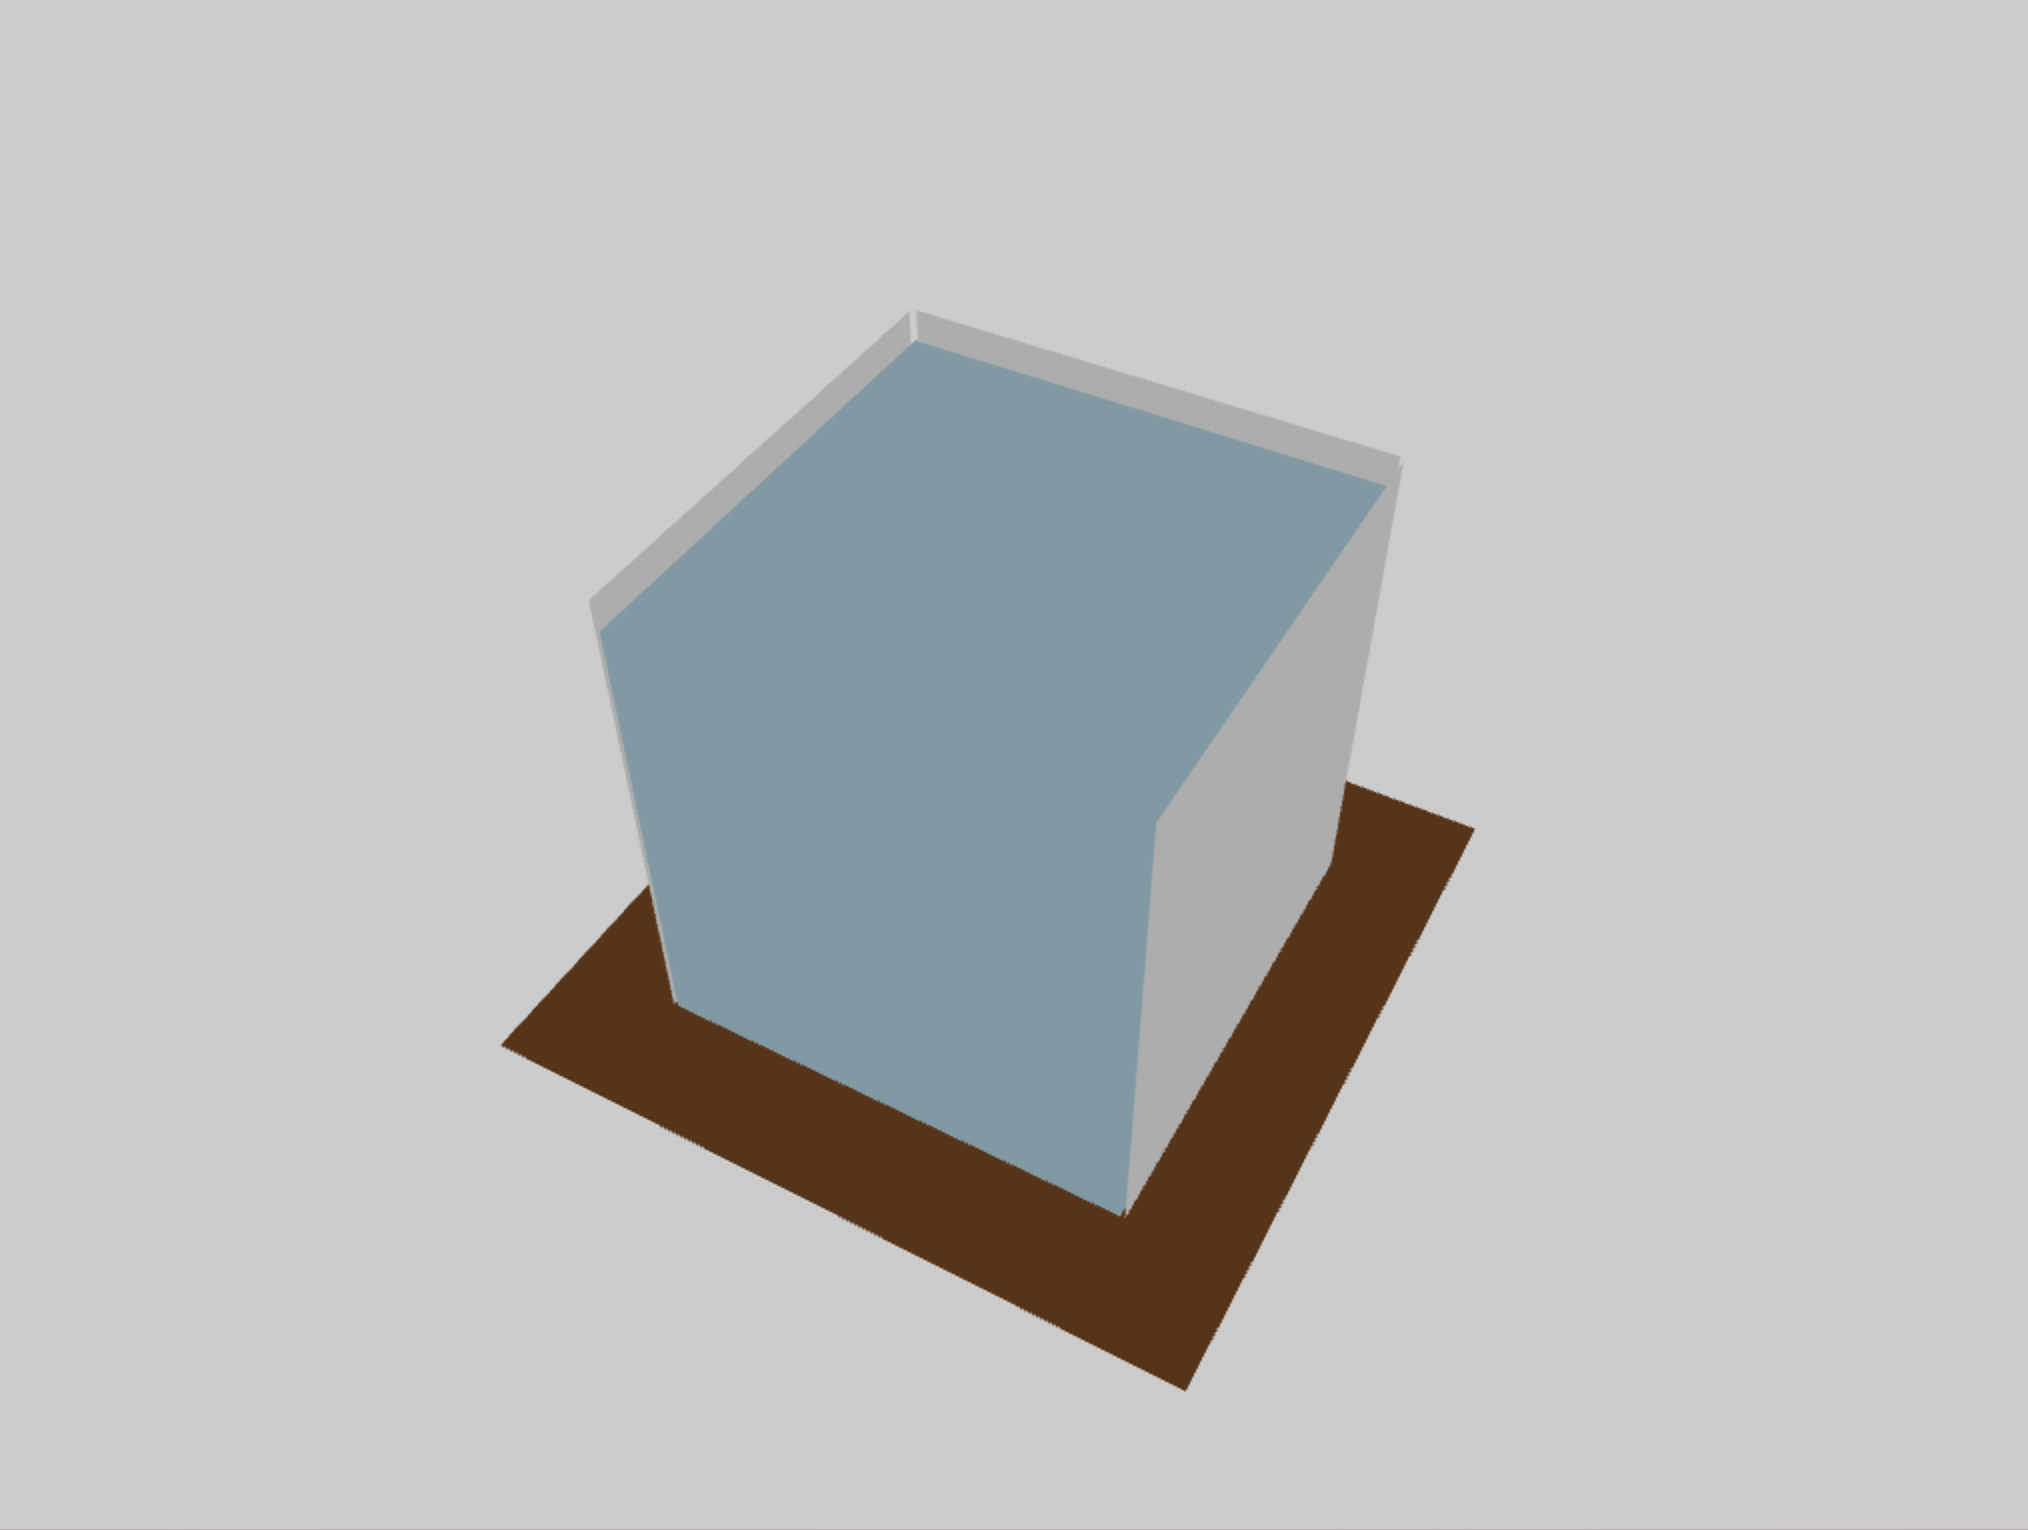
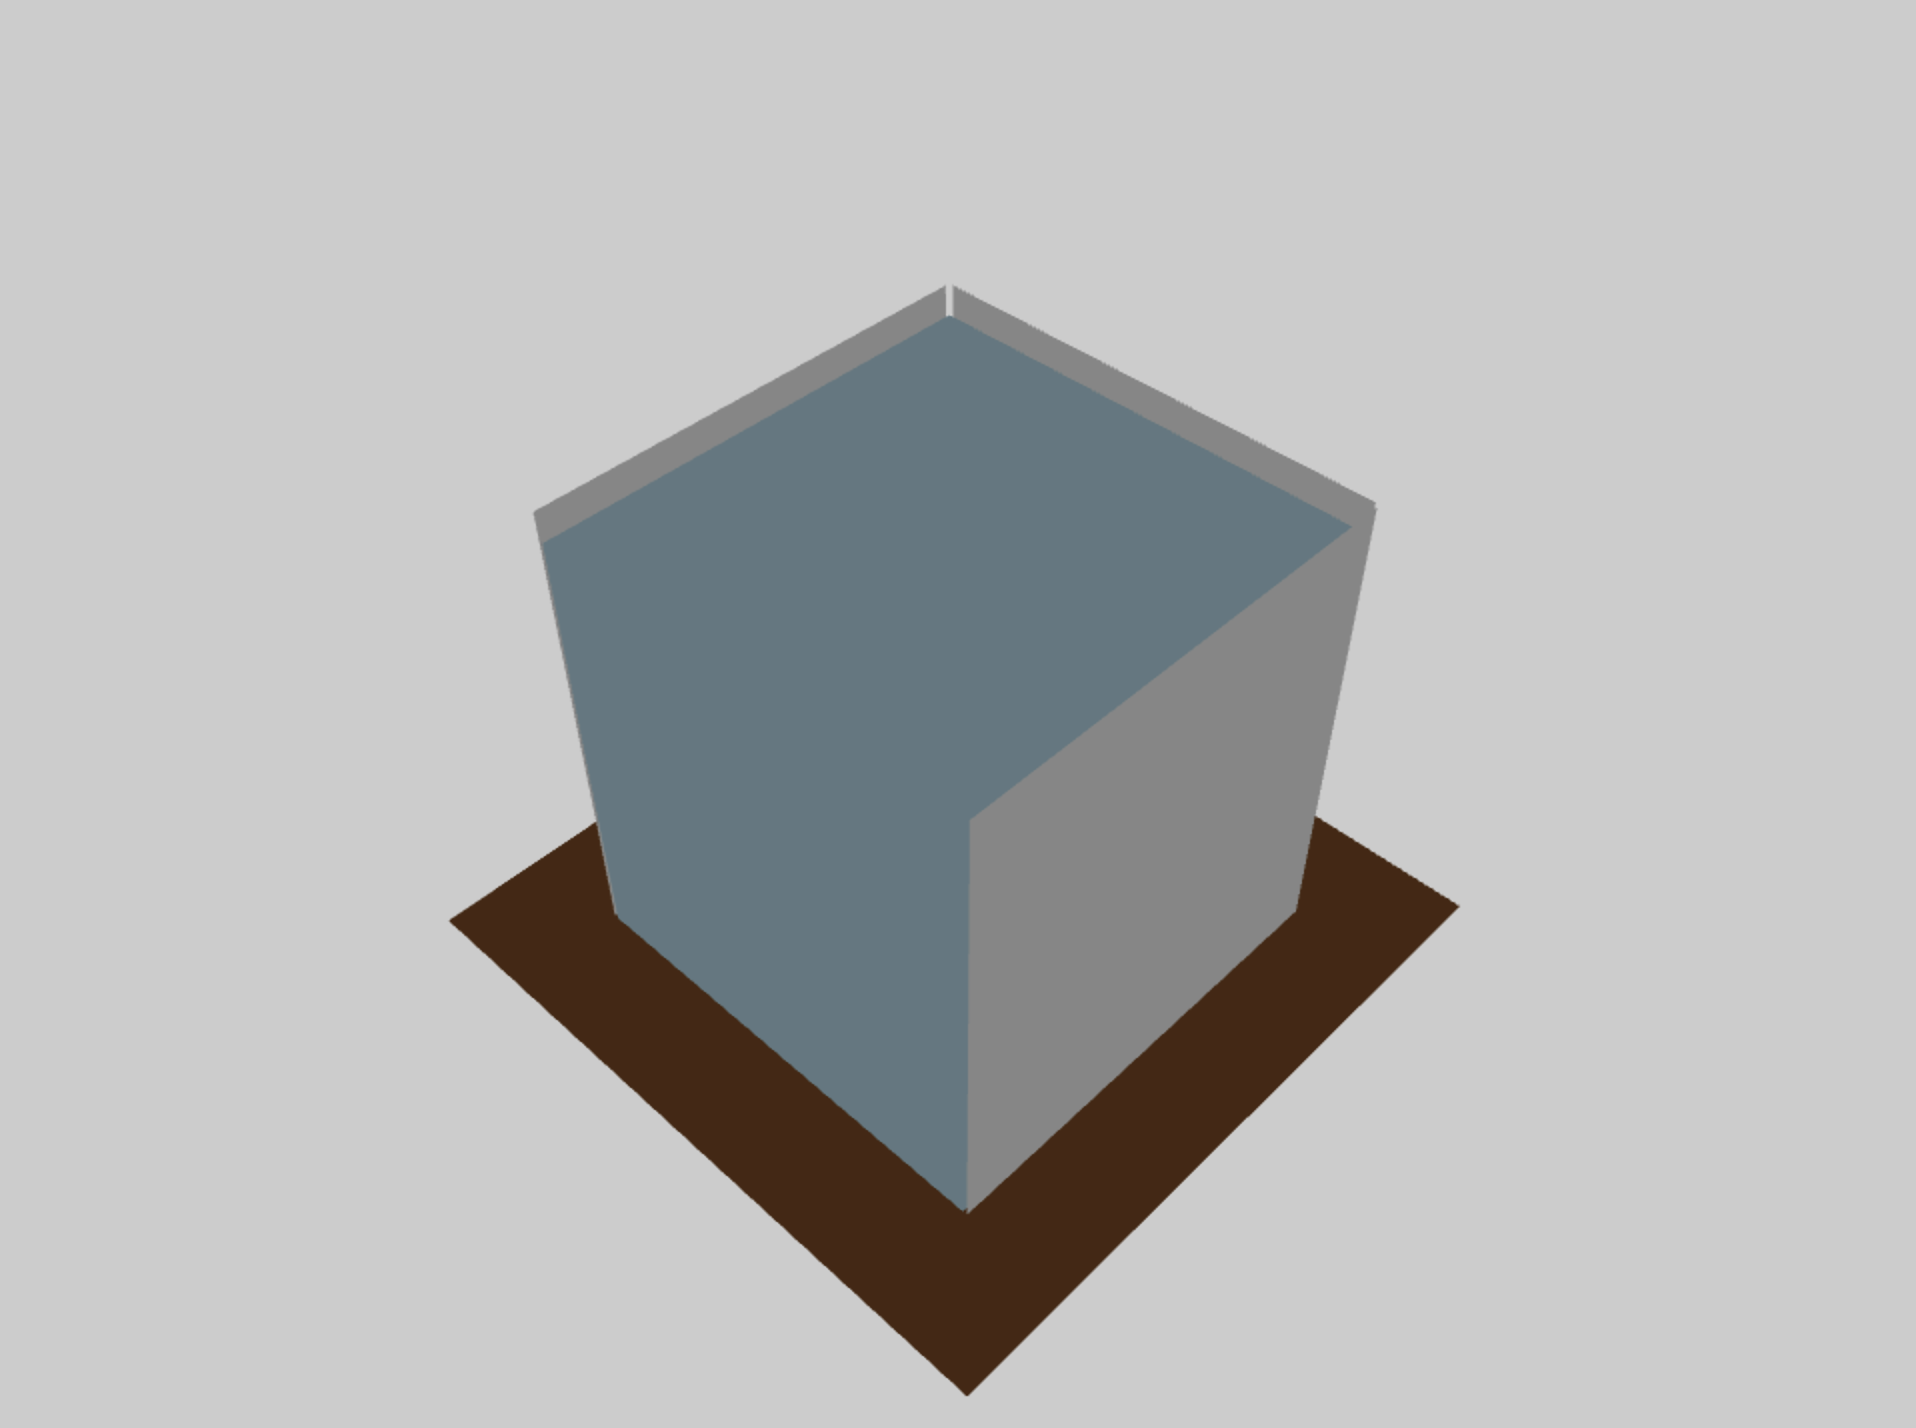
phong light adapted to material
todo: variate material param based on object (ex: aquarium bcp de reflets, table pas)

Changed region(s): [[0.2156, 0.1849, 0.7698, 0.986]]

diff --git a/Code/waterRendering/main.cpp b/Code/waterRendering/main.cpp
@@ -164,7 +164,7 @@ int main( void )
     plane->generateBuffers();
 
     plane->setColor(glm::vec3(0.5, 0.27, 0.11));
-    plane->setMaterial(glm::vec3(0.1, 0.1, 0.1), glm::vec3(0.1, 0.1, 0.1), glm::vec3(0.1, 0.1, 0.1));
+    plane->setPlaneMaterial(glm::vec3(0.8, 0.8, 0.8), glm::vec3(0.7, 0.7, 0.7), glm::vec3(0.8, 0.8, 0.8));
     scene_objects.push_back(plane);
     // ------------------------------------------------------------------------------------
 
@@ -174,8 +174,7 @@ int main( void )
     // ------------------------------------------------------------------------------------
     water->setCubeColor(glm::vec3(0.67, 0.84, 0.9));
     water->generatePlanes();
-    //water->setCubeMaterial(glm::vec3(0.1, 0.1, 0.1), glm::vec3(0.1, 0.1, 0.1), glm::vec3(0.1, 0.1, 0.1));
-    water->setMaterial(glm::vec3(0.1, 0.1, 0.1), glm::vec3(0.1, 0.1, 0.1), glm::vec3(0.1, 0.1, 0.1));
+    water->setCubeMaterial(glm::vec3(0.8, 0.8, 0.8), glm::vec3(0.7, 0.7, 0.7), glm::vec3(0.8, 0.8, 0.8));
     scene_objects.push_back(water->top);
     scene_objects.push_back(water->floor);
     scene_objects.push_back(water->left);
@@ -189,8 +188,7 @@ int main( void )
     // ------------------------------------------------------------------------------------
     aquarium->setAquariumColor(glm::vec3(0.94, 0.94, 0.94));
     aquarium->generatePlanes();
-    //aquarium->setAquariumMaterial(glm::vec3(0.1, 0.1, 0.1), glm::vec3(0.1, 0.1, 0.1), glm::vec3(0.1, 0.1, 0.1))
-    aquarium->setMaterial(glm::vec3(0.1, 0.1, 0.1), glm::vec3(0.1, 0.1, 0.1), glm::vec3(0.1, 0.1, 0.1));
+    aquarium->setAquariumMaterial(glm::vec3(0.8, 0.8, 0.8), glm::vec3(0.7, 0.7, 0.7), glm::vec3(0.8, 0.8, 0.8));
     scene_objects.push_back(aquarium->floor);
     scene_objects.push_back(aquarium->left);
     scene_objects.push_back(aquarium->right);

diff --git a/Code/waterRendering/Cube.h b/Code/waterRendering/Cube.h
@@ -72,6 +72,15 @@ public:
         back->setColor(color);
     }
 
+    void setCubeMaterial(glm::vec3 a, glm::vec3 d, glm::vec3 s){
+        top->setPlaneMaterial(a, d, s);
+        floor->setPlaneMaterial(a, d, s);
+        left->setPlaneMaterial(a, d, s);
+        right->setPlaneMaterial(a, d, s);
+        front->setPlaneMaterial(a, d, s);
+        back->setPlaneMaterial(a, d, s);
+    }
+
 
 };
 

diff --git a/Code/waterRendering/Plane.h b/Code/waterRendering/Plane.h
@@ -70,6 +70,12 @@ public:
         w = nh;
     }
 
+    void setPlaneMaterial(glm::vec3 a, glm::vec3 d, glm::vec3 s){
+        material.k_ambiant = a;
+        material.k_diffuse = d;
+        material.k_specular = s;
+    }
+
     // n_orient indicates the orientation of the normal, it can be +1.0 or -1.0
     void generatePlane(double n_orient){
 

diff --git a/Code/waterRendering/Aquarium.h b/Code/waterRendering/Aquarium.h
@@ -65,6 +65,13 @@ public:
         back->setColor(color);
     }
 
+    void setAquariumMaterial(glm::vec3 a, glm::vec3 d, glm::vec3 s){
+        floor->setPlaneMaterial(a, d, s);
+        left->setPlaneMaterial(a, d, s);
+        right->setPlaneMaterial(a, d, s);
+        back->setPlaneMaterial(a, d, s);
+    }
+
 };
 
 
